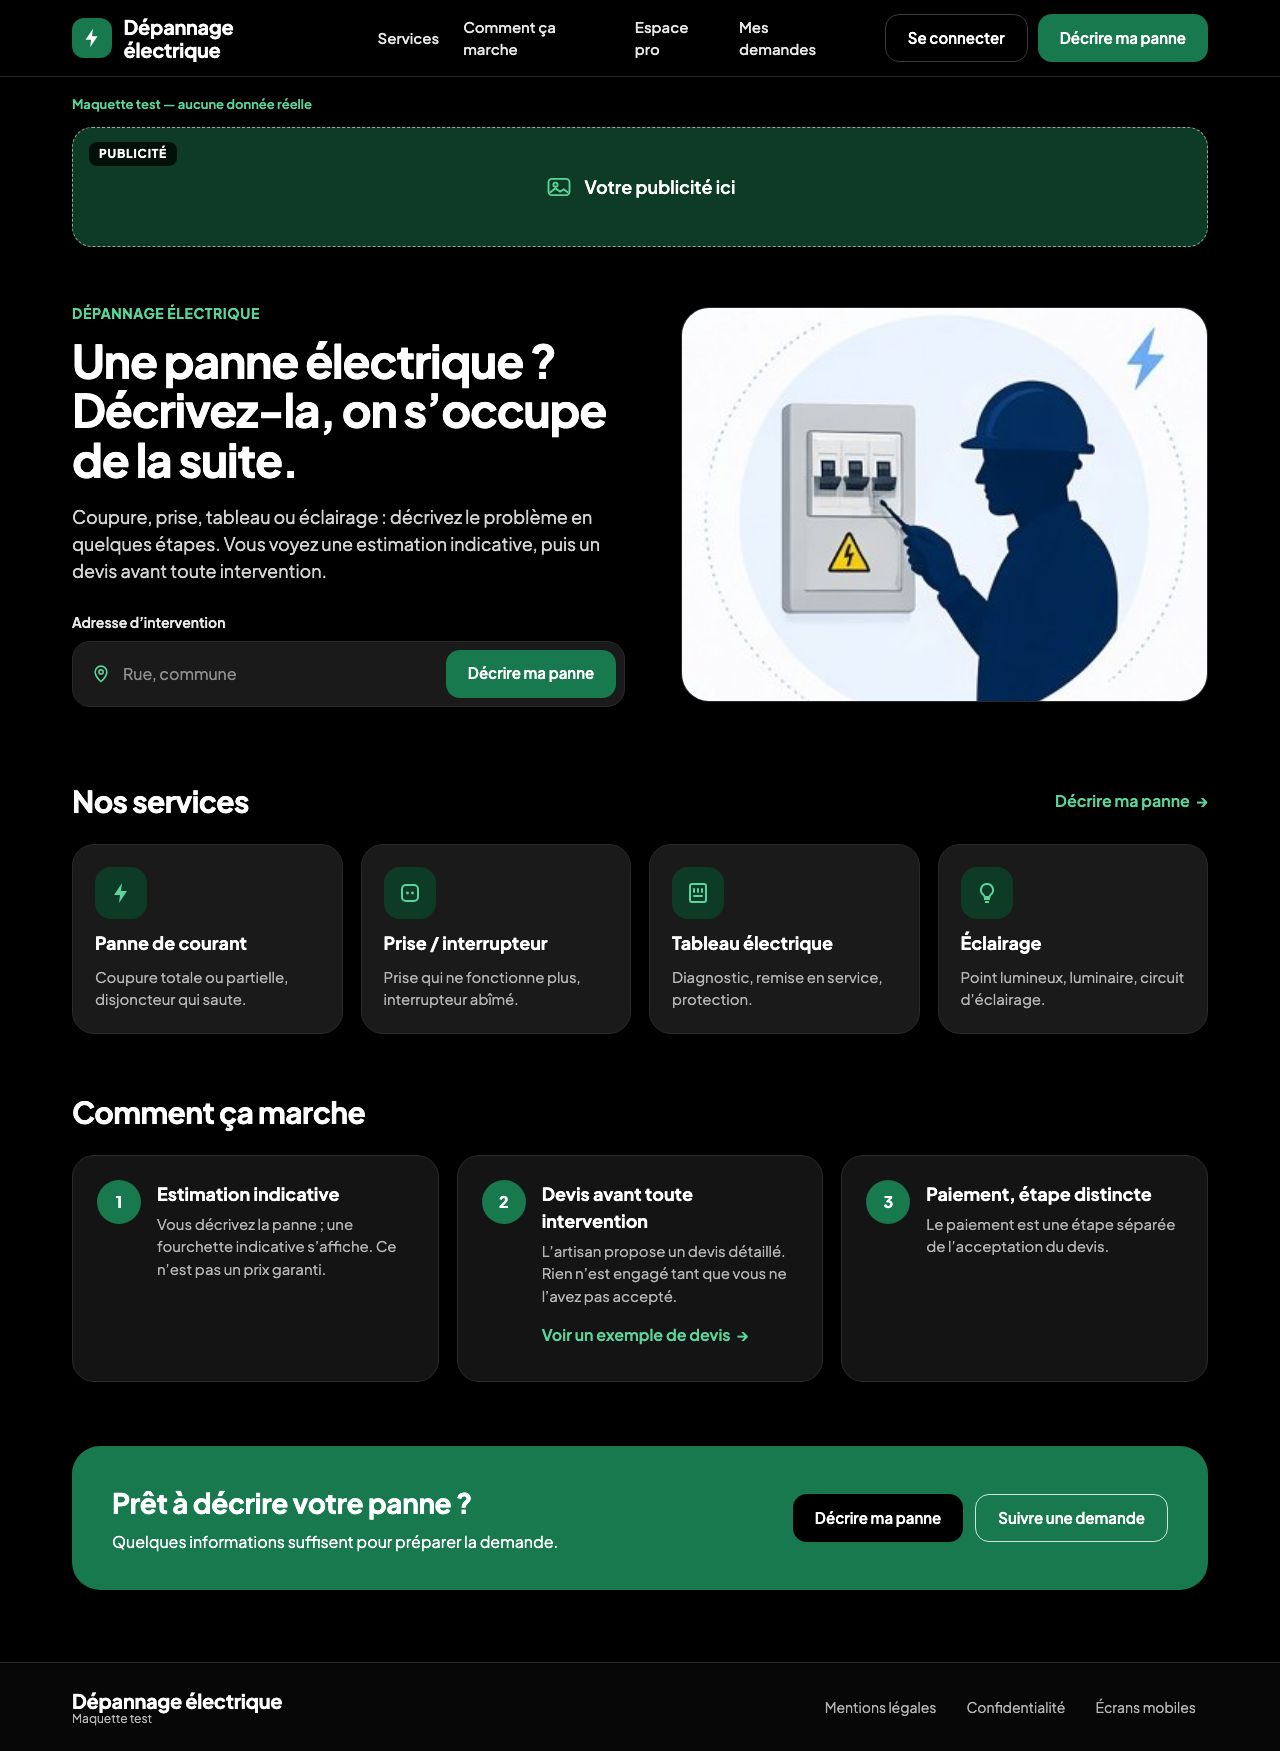
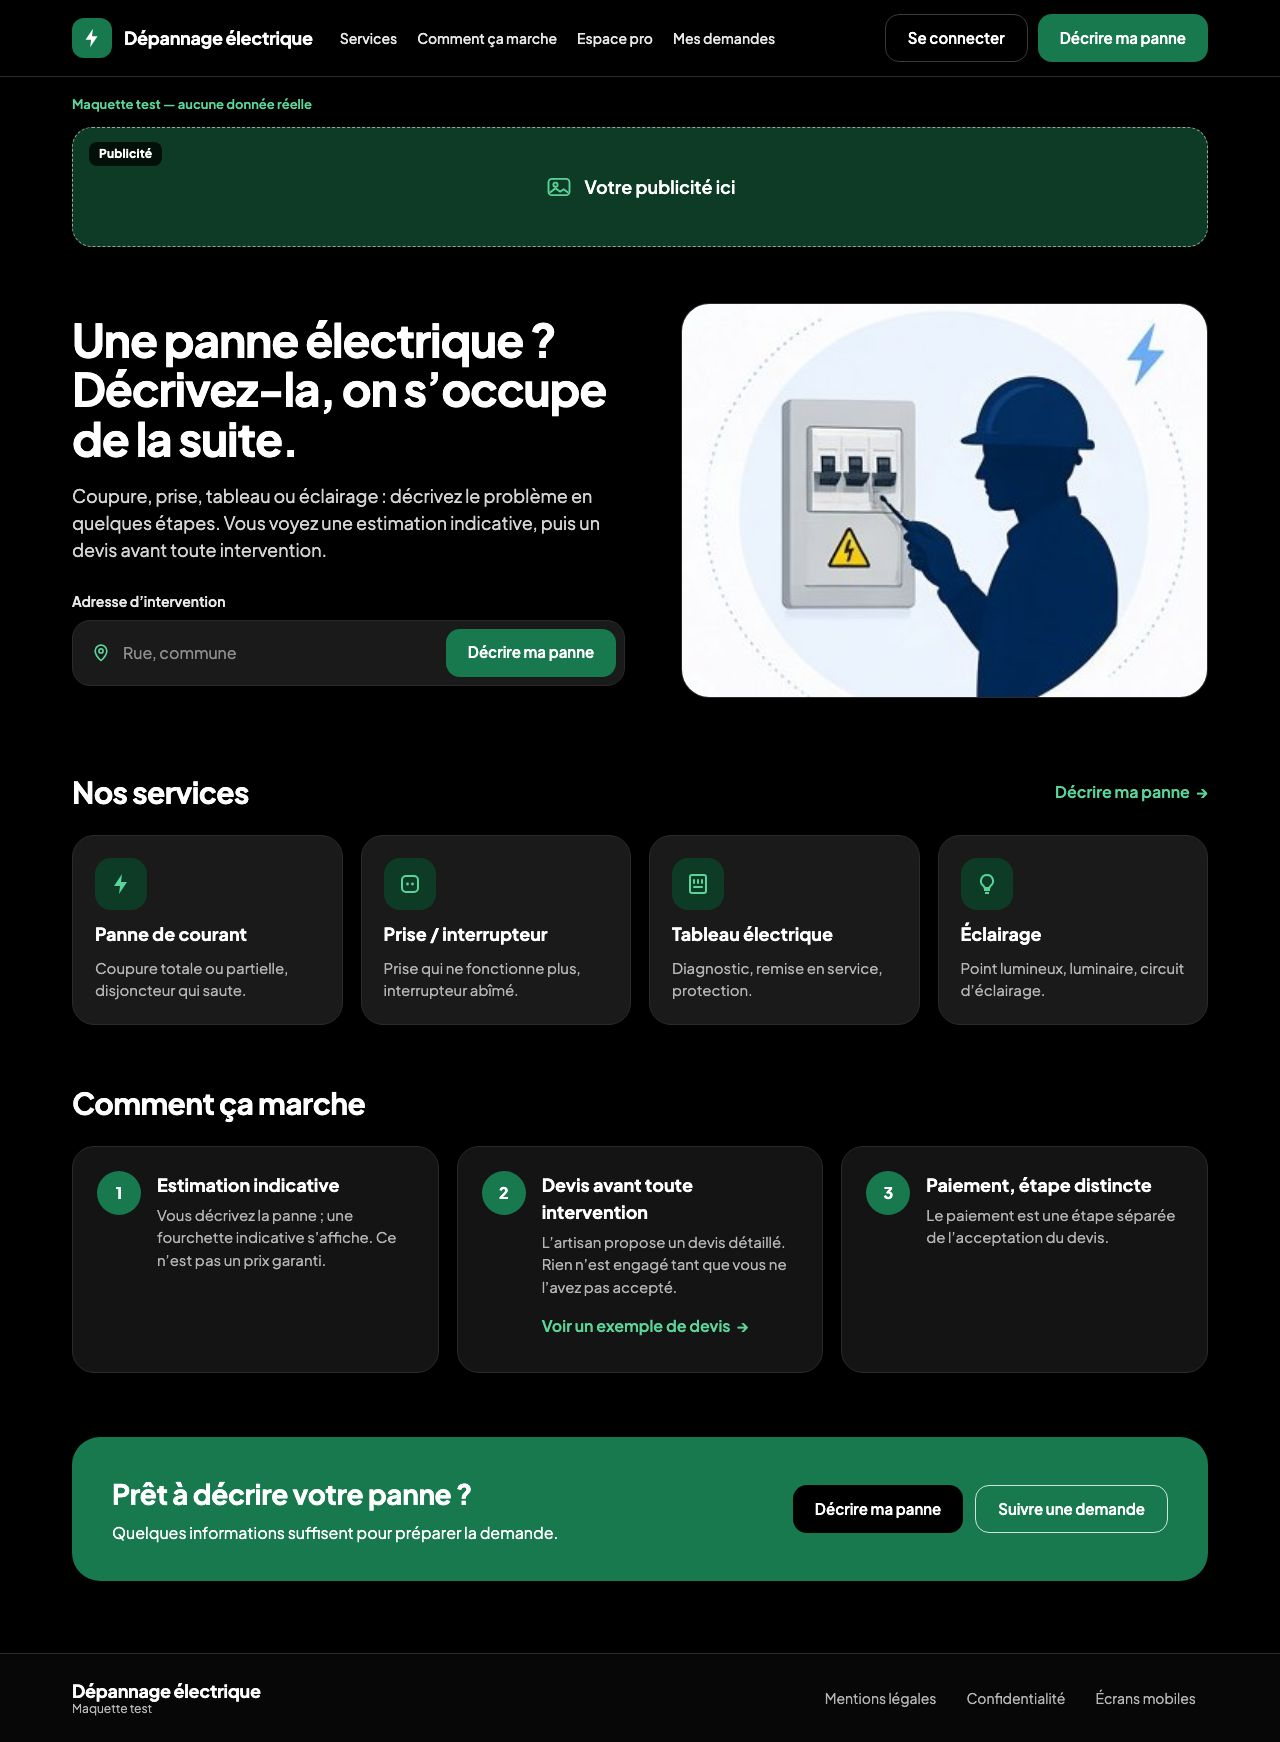
polish(prototype): web home nav on one line, opaque top bar, no eyebrow, « Publicité » label

diff --git a/prototypes/delivo-test/web.css b/prototypes/delivo-test/web.css
@@ -36,24 +36,24 @@ a { color: inherit; }
 .link:hover { text-decoration: underline; }
 
 /* Barre haute */
-.topbar { position: sticky; top: 0; z-index: 5; background: rgba(0, 0, 0, 0.92); border-bottom: 1px solid var(--line); backdrop-filter: saturate(140%) blur(6px); }
-.topbar-inner { display: flex; align-items: center; gap: 28px; min-height: 76px; }
+.topbar { position: sticky; top: 0; z-index: 5; background: #000; border-bottom: 1px solid var(--line); }
+.topbar-inner { display: flex; align-items: center; gap: 20px; min-height: 76px; }
 .brand { display: inline-flex; align-items: center; gap: 12px; min-height: 48px; text-decoration: none; }
 .brand-mark { display: inline-flex; align-items: center; justify-content: center; width: 40px; height: 40px; border-radius: 12px; background: var(--primary); color: var(--white); }
 .brand-text { display: flex; flex-direction: column; line-height: 1.15; }
-.brand-text strong { font-size: 20px; font-weight: 700; letter-spacing: -0.3px; }
+.brand-text strong { font-size: 18px; font-weight: 700; letter-spacing: -0.3px; white-space: nowrap; }
 .brand-text small { font-size: 12px; color: var(--muted); }
-.mainnav { display: flex; gap: 4px; margin-left: 8px; }
-.mainnav a { display: inline-flex; align-items: center; min-height: 44px; padding: 0 14px; border-radius: 10px; color: #e8e8e8; font-size: 15px; font-weight: 500; text-decoration: none; }
+.mainnav { display: flex; gap: 2px; margin-left: 4px; }
+.mainnav a { display: inline-flex; align-items: center; min-height: 44px; padding: 0 12px; border-radius: 10px; color: #e8e8e8; font-size: 15px; font-weight: 500; text-decoration: none; white-space: nowrap; }
 .mainnav a:hover { background: #151515; color: var(--accent); }
-.topbar-actions { display: flex; gap: 10px; margin-left: auto; }
+.topbar-actions { display: flex; gap: 10px; margin-left: auto; flex-shrink: 0; }
 
 main { padding-bottom: 72px; }
 .demo-tag { margin: 18px 0 12px; font-size: 13px; font-weight: 600; color: var(--accent); }
 
 /* Bandeau publicitaire large et statique */
 .ad { position: relative; display: block; height: 120px; overflow: hidden; border-radius: 20px; border: 1.5px dashed rgba(255, 255, 255, 0.55); background: var(--dark-green); text-decoration: none; }
-.ad-label { position: absolute; left: 16px; top: 14px; padding: 3px 10px; border-radius: 8px; background: rgba(0, 0, 0, 0.72); font-size: 12px; font-weight: 700; letter-spacing: 0.8px; }
+.ad-label { position: absolute; left: 16px; top: 14px; padding: 3px 10px; border-radius: 8px; background: rgba(0, 0, 0, 0.72); font-size: 12px; font-weight: 700; letter-spacing: 0.2px; }
 .ad-body { position: absolute; inset: 0; display: flex; align-items: center; justify-content: center; gap: 12px; font-size: 18px; font-weight: 600; }
 .ad-body svg { color: var(--accent); }
 .ad .ad-media { position: absolute; inset: 0; width: 100%; height: 100%; object-fit: cover; }
@@ -107,7 +107,8 @@ dialog p { margin: 0 0 16px; color: #ddd; }
 /* 1280 et moins : plus serré */
 @media (max-width: 1320px) {
   .hero h1 { font-size: 46px; }
-  .mainnav a { padding: 0 10px; }
+  .mainnav a { padding: 0 9px; font-size: 14px; }
+  .topbar-inner { gap: 14px; }
 }
 /* Tablette */
 @media (max-width: 1100px) {
@@ -121,6 +122,8 @@ dialog p { margin: 0 0 16px; color: #ddd; }
   .wrap { padding: 0 18px; }
   .topbar-inner { gap: 12px; min-height: 68px; }
   .brand-text small { display: none; }
+  .brand-text strong { font-size: 15px; white-space: normal; line-height: 1.15; }
+  .brand { min-width: 0; }
   .btn-ghost { display: none; }
   .topbar-actions .btn-primary { padding: 0 14px; font-size: 14px; }
   .ad { height: 104px; }

diff --git a/prototypes/delivo-test/web.html b/prototypes/delivo-test/web.html
@@ -36,7 +36,7 @@
 
       <!-- Emplacement publicitaire STATIQUE (maquette) : prêt pour une image future (<img class="ad-media" … alt="…">). -->
       <a class="ad" href="#" data-open="Emplacement publicitaire" aria-label="Publicité : emplacement disponible (démonstration)">
-        <span class="ad-label">PUBLICITÉ</span>
+        <span class="ad-label">Publicité</span>
         <span class="ad-body">
           <svg viewBox="0 0 24 24" width="28" height="28" aria-hidden="true"><rect x="3" y="5" width="18" height="14" rx="3" fill="none" stroke="currentColor" stroke-width="1.6"/><circle cx="9" cy="10" r="1.8" fill="none" stroke="currentColor" stroke-width="1.6"/><path d="M4 17l5-4 4 3 3-2 4 3" fill="none" stroke="currentColor" stroke-width="1.6" stroke-linejoin="round"/></svg>
           Votre publicité ici
@@ -45,7 +45,6 @@
 
       <section class="hero" aria-labelledby="hero-title">
         <div class="hero-text">
-          <p class="eyebrow">Dépannage électrique</p>
           <h1 id="hero-title">Une panne électrique&nbsp;? Décrivez-la, on s’occupe de la suite.</h1>
           <p class="lead">Coupure, prise, tableau ou éclairage : décrivez le problème en quelques étapes. Vous voyez une estimation indicative, puis un devis avant toute intervention.</p>
           <form class="hero-form" action="demande.html" method="get">
